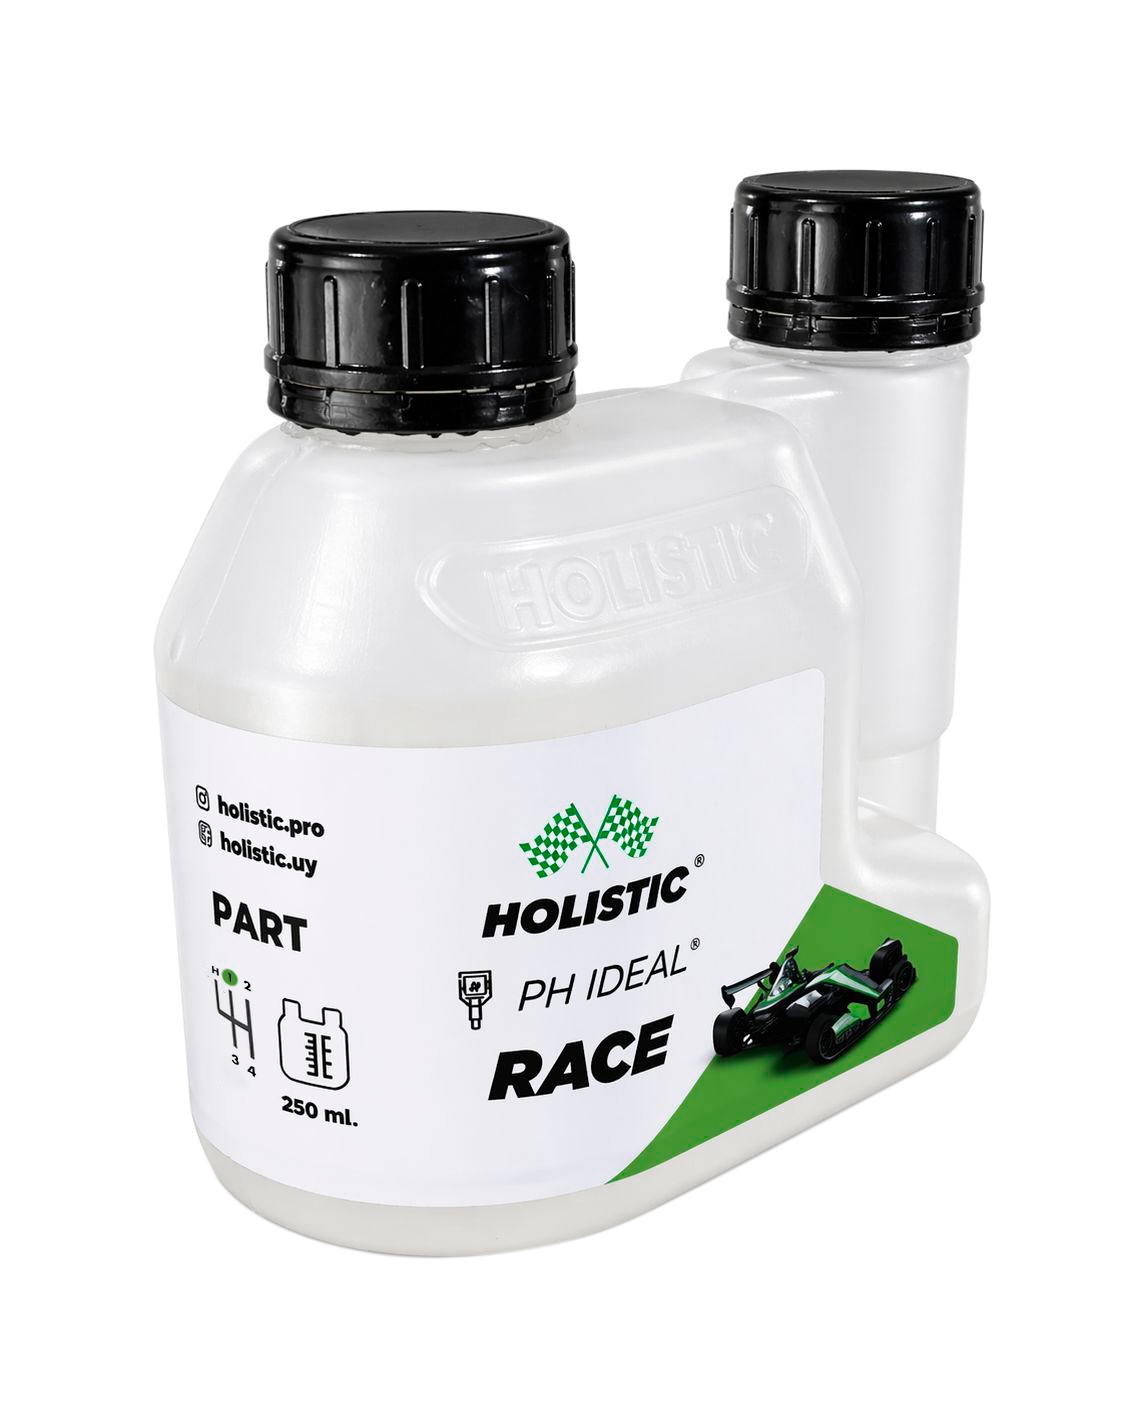
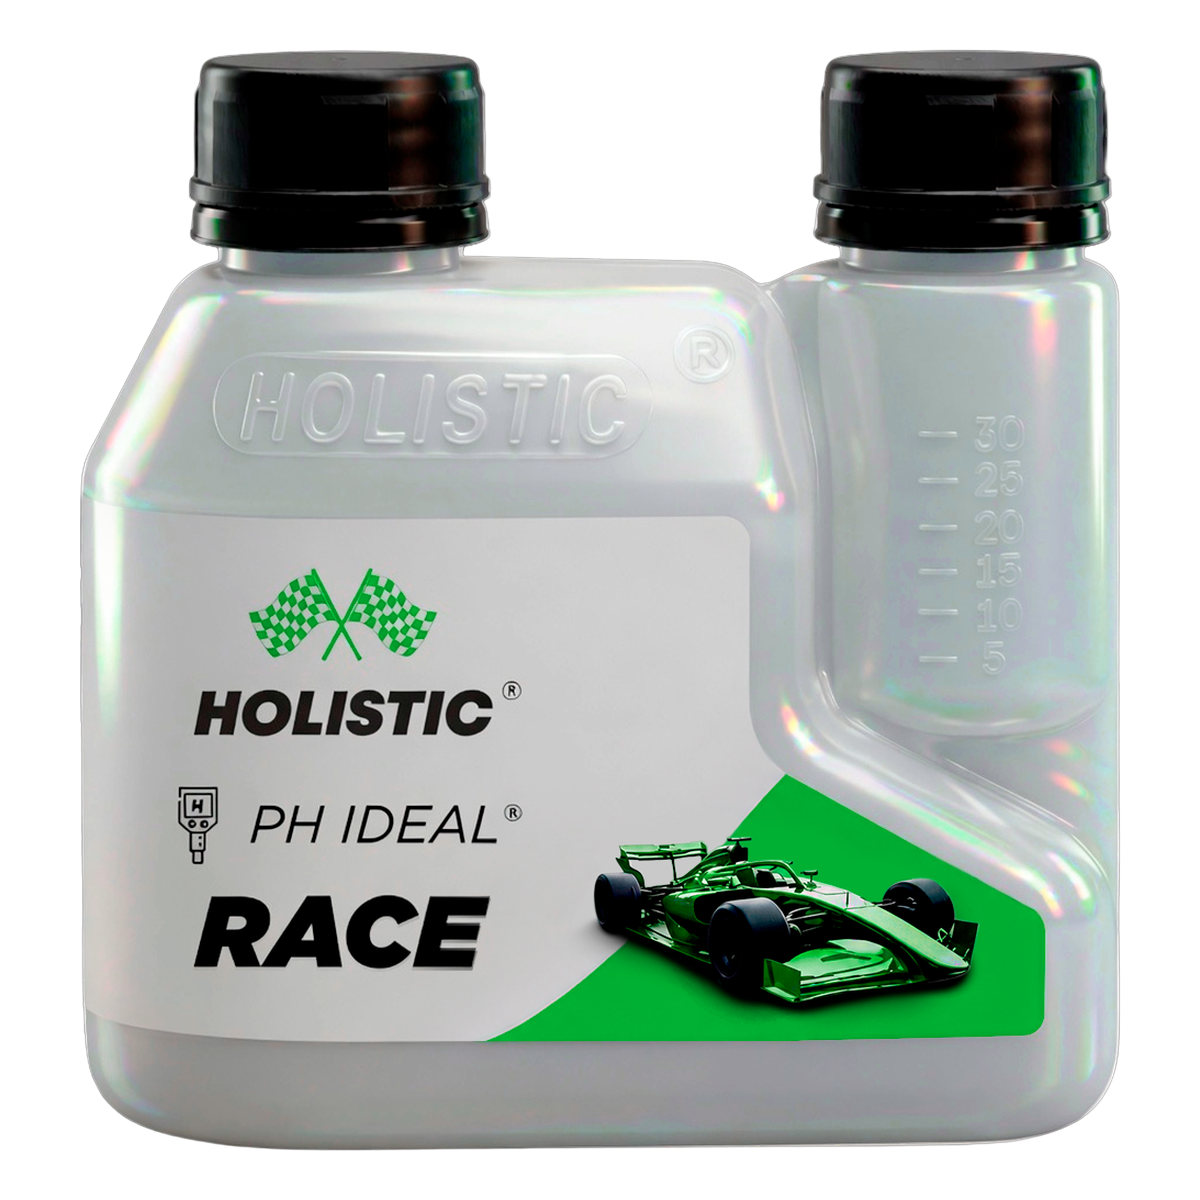
shop: reestructurar SKUs race al esquema nuevo (alineado a la interna)
Los SKUs race seguían el modelo viejo (Race2=2partes floración, Race3=PK
rosa single, Race4=celeste). Reestructurados al esquema de la interna:
- Race 1 — NPK (verde)            slug race-1-npk-{250,500}ml
- Race 2 — Calcio + Nitrógeno (celeste)  race-2-calcio-nitrogeno-*
- Race 3 — PK 1ª parte (violeta)  race-3-pk-1-*
- Race 3 — PK 2ª parte (violeta)  race-3-pk-2-*
- Race 4 — Micro + Magnesio (rosa) race-4-micro-magnesio-* (recolor)
Slugs/nombres/SKU codes/meta(color) actualizados + imágenes 250ml nuevas
(verde/celeste/violeta-a/violeta-b/rosa, normalizadas 1200²). Removidas las
250ml viejas huérfanas.

Nota: aplica en re-seed; sobre DB existente, los SKUs viejos quedan (ON
CONFLICT slug DO NOTHING) — re-seed limpio o migración manual.

diff --git a/server/routes/shop.js b/server/routes/shop.js
@@ -172,56 +172,58 @@ async function migrate() {
     SELECT v.slug, v.name, v.short, v.price, v.sku, c.id, FALSE, v.sort, v.meta::jsonb
     FROM (VALUES
       -- ═══════════════ LÍNEA RACE (10 SKUs: 5 fórmulas × 2 sizes) ═══════════════
-      ('race-1-vegetativo-250ml',
-       'Race 1 — Vegetativo 250ml',
-       'NPK concentrado para arranque vigoroso. Hojas grandes, masa vegetal sólida.',
-       4500000, 'RACE1-VEG-250', 'fertilizantes', 10,
-       '{"linea":"race","etapa":"vegetativo","formato":"250ml","color":"verde"}'),
-      ('race-1-vegetativo-500ml',
-       'Race 1 — Vegetativo 500ml',
-       'NPK concentrado para arranque vigoroso. Hojas grandes, masa vegetal sólida.',
-       7500000, 'RACE1-VEG-500', 'fertilizantes', 11,
-       '{"linea":"race","etapa":"vegetativo","formato":"500ml","color":"verde"}'),
-      ('race-2-floracion-part-a-250ml',
-       'Race 2 — Floración Part A 250ml',
-       'Calcio + magnesio para floración. Se aplica junto a Part B en cada riego.',
-       4500000, 'RACE2A-FLOR-250', 'fertilizantes', 12,
-       '{"linea":"race","etapa":"floracion","formato":"250ml","color":"morado","parte":"A"}'),
-      ('race-2-floracion-part-a-500ml',
-       'Race 2 — Floración Part A 500ml',
-       'Calcio + magnesio para floración. Se aplica junto a Part B en cada riego.',
-       7500000, 'RACE2A-FLOR-500', 'fertilizantes', 13,
-       '{"linea":"race","etapa":"floracion","formato":"500ml","color":"morado","parte":"A"}'),
-      ('race-2-floracion-part-b-250ml',
-       'Race 2 — Floración Part B 250ml',
-       'Fósforo + potasio en proporción exacta para flores densas. Junto a Part A.',
-       4500000, 'RACE2B-FLOR-250', 'fertilizantes', 14,
-       '{"linea":"race","etapa":"floracion","formato":"250ml","color":"morado","parte":"B"}'),
-      ('race-2-floracion-part-b-500ml',
-       'Race 2 — Floración Part B 500ml',
-       'Fósforo + potasio en proporción exacta para flores densas. Junto a Part A.',
-       7500000, 'RACE2B-FLOR-500', 'fertilizantes', 15,
-       '{"linea":"race","etapa":"floracion","formato":"500ml","color":"morado","parte":"B"}'),
-      ('race-3-pk-rosa-250ml',
-       'Race 3 — PK Crecimiento y Maduración 250ml',
-       'PK de pico productivo. Translocación de azúcares + flores agrandadas.',
-       5000000, 'RACE3-PK-250', 'fertilizantes', 16,
-       '{"linea":"race","etapa":"pk","formato":"250ml","color":"rosa"}'),
-      ('race-3-pk-rosa-500ml',
-       'Race 3 — PK Crecimiento y Maduración 500ml',
-       'PK de pico productivo. Translocación de azúcares + flores agrandadas.',
-       8500000, 'RACE3-PK-500', 'fertilizantes', 17,
-       '{"linea":"race","etapa":"pk","formato":"500ml","color":"rosa"}'),
+      -- Esquema alineado a la interna: R1 NPK verde · R2 Calcio+Nitrógeno celeste
+      -- · R3 PK 1ª/2ª violeta · R4 Micro+Magnesio rosa.
+      ('race-1-npk-250ml',
+       'Race 1 — NPK 250ml',
+       'NPK concentrado para todo el ciclo. Hojas, raíces y metabolismo regulado.',
+       4500000, 'RACE1-NPK-250', 'fertilizantes', 10,
+       '{"linea":"race","etapa":"npk","formato":"250ml","color":"verde"}'),
+      ('race-1-npk-500ml',
+       'Race 1 — NPK 500ml',
+       'NPK concentrado para todo el ciclo. Hojas, raíces y metabolismo regulado.',
+       7500000, 'RACE1-NPK-500', 'fertilizantes', 11,
+       '{"linea":"race","etapa":"npk","formato":"500ml","color":"verde"}'),
+      ('race-2-calcio-nitrogeno-250ml',
+       'Race 2 — Calcio + Nitrógeno 250ml',
+       'Paredes celulares fuertes, más raíces y brotes, resistencia a plagas y sequías.',
+       4500000, 'RACE2-CAN-250', 'fertilizantes', 12,
+       '{"linea":"race","etapa":"estructura","formato":"250ml","color":"celeste"}'),
+      ('race-2-calcio-nitrogeno-500ml',
+       'Race 2 — Calcio + Nitrógeno 500ml',
+       'Paredes celulares fuertes, más raíces y brotes, resistencia a plagas y sequías.',
+       7500000, 'RACE2-CAN-500', 'fertilizantes', 13,
+       '{"linea":"race","etapa":"estructura","formato":"500ml","color":"celeste"}'),
+      ('race-3-pk-1-250ml',
+       'Race 3 — PK 1ª parte 250ml',
+       'Primera de las 2 partes PK. Translocación de azúcares y flores agrandadas.',
+       5000000, 'RACE3A-PK-250', 'fertilizantes', 14,
+       '{"linea":"race","etapa":"pk","formato":"250ml","color":"violeta","parte":"1"}'),
+      ('race-3-pk-1-500ml',
+       'Race 3 — PK 1ª parte 500ml',
+       'Primera de las 2 partes PK. Translocación de azúcares y flores agrandadas.',
+       8500000, 'RACE3A-PK-500', 'fertilizantes', 15,
+       '{"linea":"race","etapa":"pk","formato":"500ml","color":"violeta","parte":"1"}'),
+      ('race-3-pk-2-250ml',
+       'Race 3 — PK 2ª parte 250ml',
+       'Segunda parte PK. Sostiene flores densas hasta el cierre del ciclo.',
+       5000000, 'RACE3B-PK-250', 'fertilizantes', 16,
+       '{"linea":"race","etapa":"pk","formato":"250ml","color":"violeta","parte":"2"}'),
+      ('race-3-pk-2-500ml',
+       'Race 3 — PK 2ª parte 500ml',
+       'Segunda parte PK. Sostiene flores densas hasta el cierre del ciclo.',
+       8500000, 'RACE3B-PK-500', 'fertilizantes', 17,
+       '{"linea":"race","etapa":"pk","formato":"500ml","color":"violeta","parte":"2"}'),
       ('race-4-micro-magnesio-250ml',
        'Race 4 — Micro + Magnesio 250ml',
-       'Cierre del ciclo. Compacta tejidos, potencia aromas y resinas.',
+       'Microelementos (Fe, Zn, B, Mn, Cu, Mo) + magnesio. Activan enzimas y fotosíntesis.',
        4500000, 'RACE4-MIC-250', 'fertilizantes', 18,
-       '{"linea":"race","etapa":"finalizador","formato":"250ml","color":"celeste"}'),
+       '{"linea":"race","etapa":"micro","formato":"250ml","color":"rosa"}'),
       ('race-4-micro-magnesio-500ml',
        'Race 4 — Micro + Magnesio 500ml',
-       'Cierre del ciclo. Compacta tejidos, potencia aromas y resinas.',
+       'Microelementos (Fe, Zn, B, Mn, Cu, Mo) + magnesio. Activan enzimas y fotosíntesis.',
        7500000, 'RACE4-MIC-500', 'fertilizantes', 19,
-       '{"linea":"race","etapa":"finalizador","formato":"500ml","color":"celeste"}'),
+       '{"linea":"race","etapa":"micro","formato":"500ml","color":"rosa"}'),
 
       -- ═══════════════ LÍNEA ELITE (10 SKUs: Parte 1 + Parte 2 × varios sizes) ═══════════════
       ('elite-parte-1-500ml',
@@ -396,16 +398,16 @@ async function migrate() {
     SELECT p.id, v.url, v.alt, 0, TRUE
     FROM (VALUES
       -- Race 250ml
-      ('race-1-vegetativo-250ml',         '/img/productos/linea-race/250ml/race-1-verde.png',           'Race 1 Vegetativo 250ml'),
-      ('race-2-floracion-part-a-250ml',   '/img/productos/linea-race/250ml/race-2-part-a.png',          'Race 2 Floración Part A 250ml'),
-      ('race-2-floracion-part-b-250ml',   '/img/productos/linea-race/250ml/race-2-part-b.png',          'Race 2 Floración Part B 250ml'),
-      ('race-3-pk-rosa-250ml',            '/img/productos/linea-race/250ml/race-3-rosa.png',            'Race 3 PK 250ml'),
-      ('race-4-micro-magnesio-250ml',     '/img/productos/linea-race/250ml/race-4-celeste.png',         'Race 4 Micro+Mg 250ml'),
+      ('race-1-npk-250ml',                '/img/productos/linea-race/250ml/race-1-verde.png',           'Race 1 NPK (verde) 250ml'),
+      ('race-2-calcio-nitrogeno-250ml',   '/img/productos/linea-race/250ml/race-2-celeste.png',         'Race 2 Calcio + Nitrógeno (celeste) 250ml'),
+      ('race-3-pk-1-250ml',               '/img/productos/linea-race/250ml/race-3-violeta-a.png',       'Race 3 PK 1ª parte (violeta) 250ml'),
+      ('race-3-pk-2-250ml',               '/img/productos/linea-race/250ml/race-3-violeta-b.png',       'Race 3 PK 2ª parte (violeta) 250ml'),
+      ('race-4-micro-magnesio-250ml',     '/img/productos/linea-race/250ml/race-4-rosa.png',            'Race 4 Micro + Magnesio (rosa) 250ml'),
       -- Race 500ml
-      ('race-1-vegetativo-500ml',         '/img/productos/linea-race/500ml/race-1-verde-500ml.png',     'Race 1 Vegetativo 500ml'),
-      ('race-2-floracion-part-a-500ml',   '/img/productos/linea-race/500ml/race-2-celeste-500ml.png',   'Race 2 Calcio + Nitrógeno (celeste) 500ml'),
-      ('race-2-floracion-part-b-500ml',   '/img/productos/linea-race/500ml/race-3-violeta-b-500ml.png', 'Race 3 PK 2ª parte (violeta) 500ml'),
-      ('race-3-pk-rosa-500ml',            '/img/productos/linea-race/500ml/race-3-violeta-a-500ml.png', 'Race 3 PK 1ª parte (violeta) 500ml'),
+      ('race-1-npk-500ml',                '/img/productos/linea-race/500ml/race-1-verde-500ml.png',     'Race 1 NPK (verde) 500ml'),
+      ('race-2-calcio-nitrogeno-500ml',   '/img/productos/linea-race/500ml/race-2-celeste-500ml.png',   'Race 2 Calcio + Nitrógeno (celeste) 500ml'),
+      ('race-3-pk-1-500ml',               '/img/productos/linea-race/500ml/race-3-violeta-a-500ml.png', 'Race 3 PK 1ª parte (violeta) 500ml'),
+      ('race-3-pk-2-500ml',               '/img/productos/linea-race/500ml/race-3-violeta-b-500ml.png', 'Race 3 PK 2ª parte (violeta) 500ml'),
       ('race-4-micro-magnesio-500ml',     '/img/productos/linea-race/500ml/race-4-rosa-500ml.png',      'Race 4 Micro + Magnesio (rosa) 500ml'),
       -- Elite 500ml + 1L
       ('elite-parte-1-500ml',             '/img/productos/linea-elite/500gr/parte-1-lateral.png',       'Elite Parte 1 500ml'),
